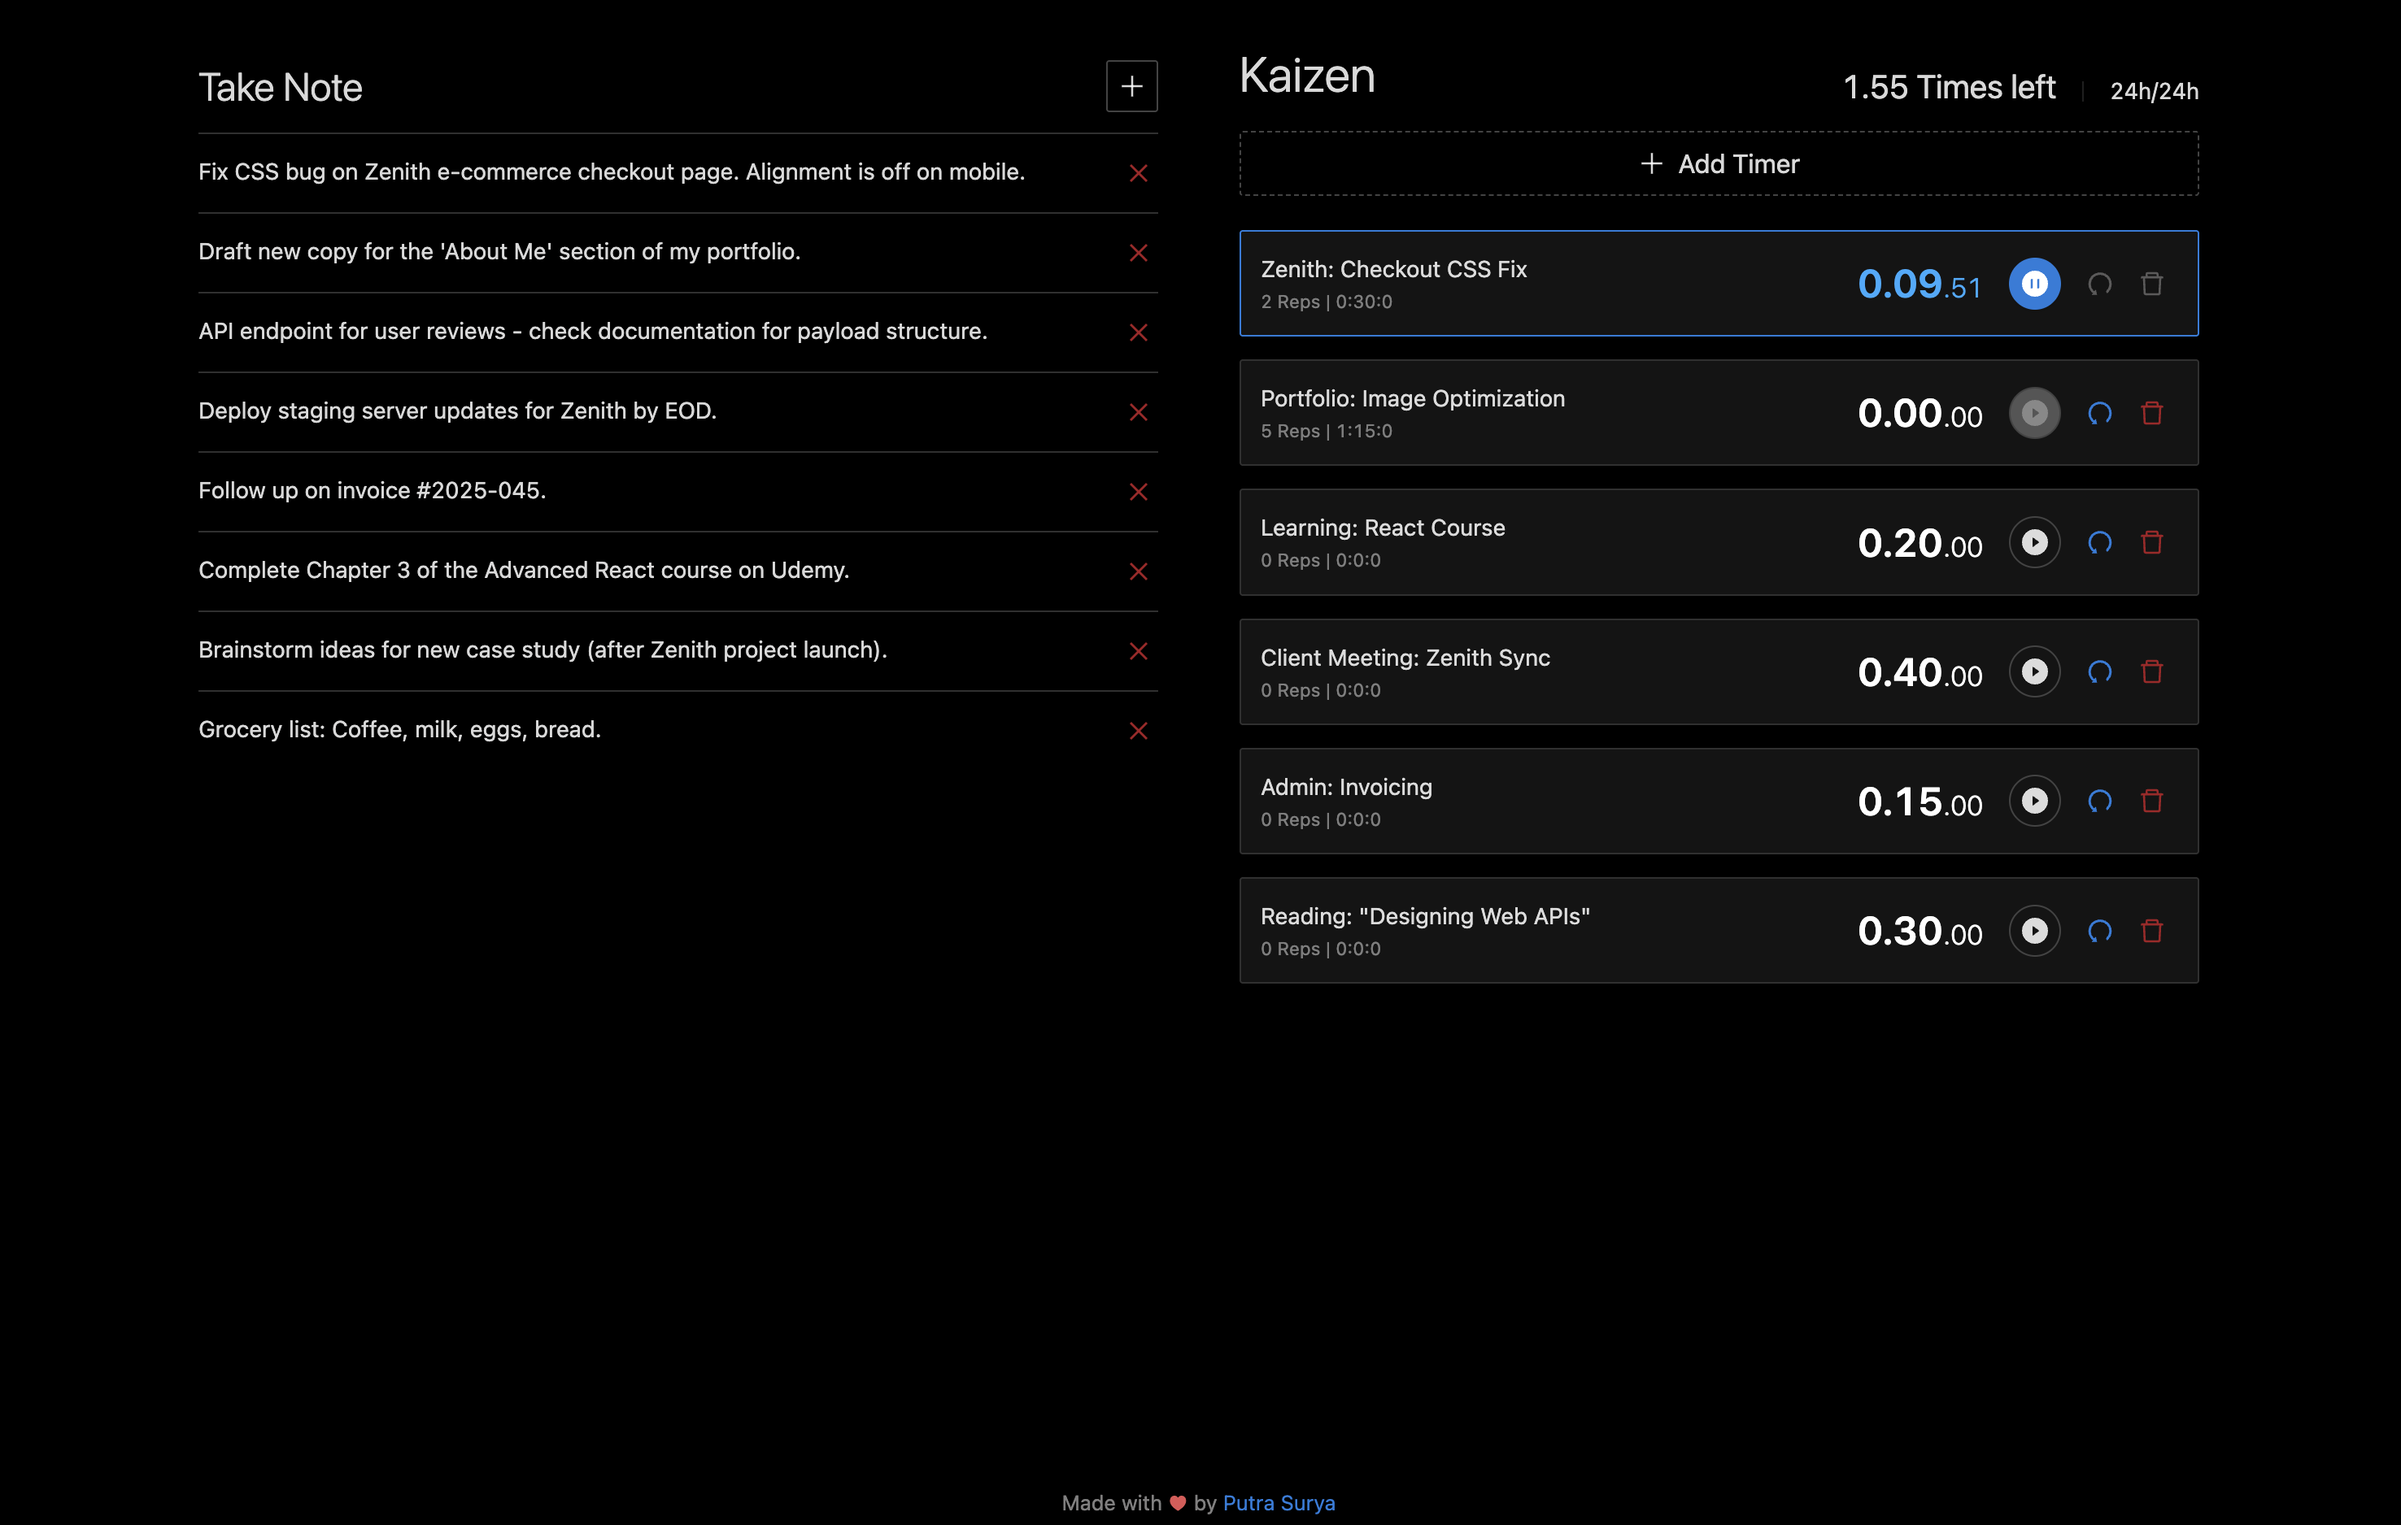
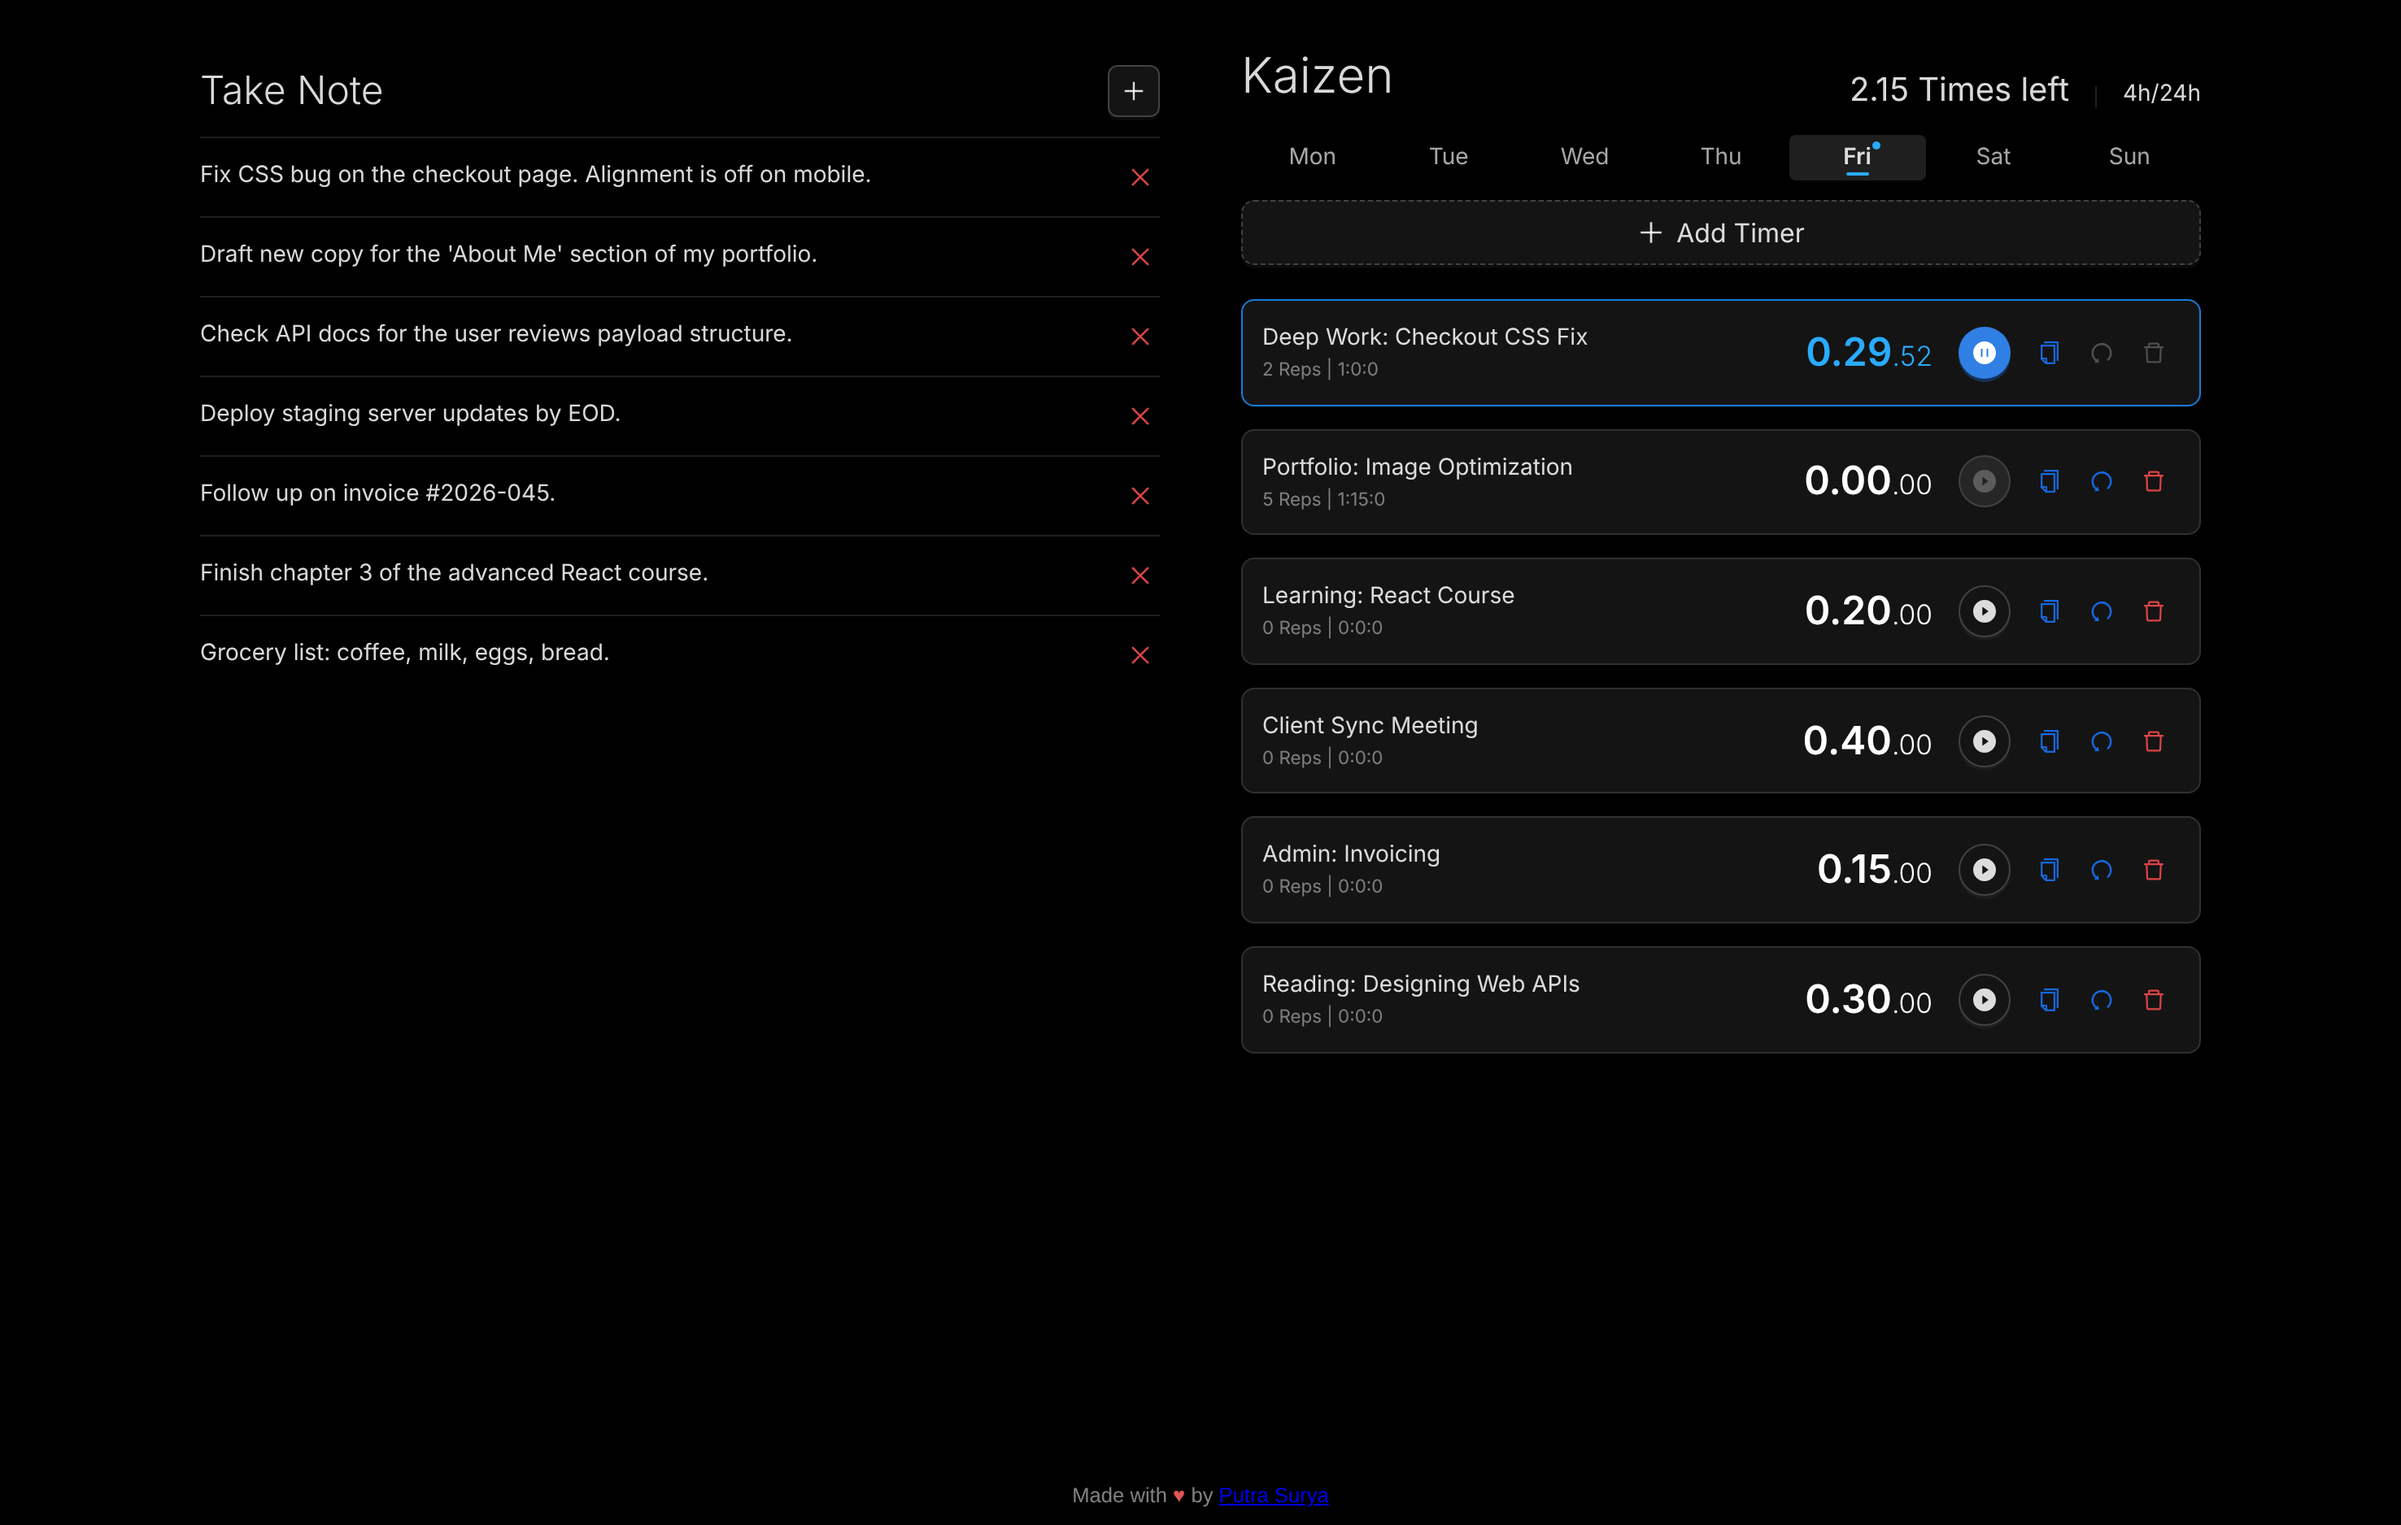
Update README and screenshot for weekday timers
Document weekday timers, copy-to-days, reps, PWA install and local
storage; correct the Node requirement and state management notes;
refresh the screenshot with the day picker.

Claude-Session: https://claude.ai/code/session_013W1pspxjPkncKzsRS1rkD1

diff --git a/README.md b/README.md
@@ -1,23 +1,25 @@
 # Kaizen
 
-A modern productivity application that combines timer management with note-taking functionality to help you practice continuous improvement in your daily workflow.
+A productivity app that pairs weekly timers with quick notes, to help you practice continuous improvement in your daily workflow.
 
-![Kaizen Demo](./screenshot.png)
+![Kaizen screenshot](./screenshot.png)
 
 ## ✨ Features
 
-- **Timer Management**: Create, manage, and track multiple timers for different tasks
-- **Note Taking**: Quick and easy note management with add/delete functionality
-- **Time Tracking**: Monitor time spent and remaining time for better productivity
-- **Responsive Design**: Works seamlessly on desktop and mobile devices
-- **Modern UI**: Clean interface built with Ant Design components
-- **Sound Notifications**: Audio alerts to keep you focused
+- **Timers per weekday**: Each timer belongs to a day of the week. Switch days with the day picker; today is selected by default and a dot marks days with a running timer.
+- **Copy to days**: Copy a timer's settings to other weekdays in one step (days that already have an identical timer are skipped).
+- **Reps**: Each time a timer reaches zero, it buzzes and counts a rep, so you can track how many rounds you've done.
+- **Time left**: See the total time remaining across the selected day's timers, plus how many hours are left in today.
+- **Notes**: Add and delete quick reminders alongside your timers.
+- **Saved locally**: Timers and notes are stored in your browser's localStorage, with automatic migration when the data format changes.
+- **Installable PWA**: Works offline and can be installed on desktop or mobile, with a prompt when a new version is available.
+- **Responsive**: Larger touch targets and a stacked layout on phones.
 
 ## 🚀 Quick Start
 
 ### Prerequisites
 
-- Node.js (^20.19.0 or >=22.12.0)
+- Node.js ^22.22.2, ^24.15.0, or >=26.0.0 (required by the test environment, jsdom)
 - npm (>=8.0.0)
 
 ### Installation
@@ -43,37 +45,42 @@ Open [http://localhost:5173](http://localhost:5173) to view the app in your brow
 ## 🛠 Available Scripts
 
 ### `npm start`
-Runs the app in development mode with hot module reloading enabled.
+Runs the app in development mode with hot module reloading.
 
 ### `npm test`
 Runs the test suite once (CI-friendly). Use `npx vitest` for interactive watch mode.
 
 ### `npm run build`
-Builds the app for production to the `build` folder. The build is optimized and ready for deployment.
+Builds the app for production into the `build` folder, including the PWA service worker.
 
 ## 🏗 Technology Stack
 
 - **Frontend**: React 19, JSX
 - **UI Framework**: Ant Design 6
 - **Styling**: CSS Modules, CSS-in-JS (via Ant Design)
-- **State Management**: React Context API
-- **Build Tool**: Vite
+- **State Management**: React Context with `useReducer`, persisted to localStorage
+- **Build Tool**: Vite, with `vite-plugin-pwa`
 - **Testing**: Vitest, React Testing Library
 
 ## 📁 Project Structure
 
 ```
 src/
-├── components/          # Reusable UI components
-│   ├── AppTimer.jsx    # Timer management component
-│   ├── AppNote.jsx     # Note-taking component
-│   ├── TimerAdd.jsx    # Add new timer form
-│   ├── TimerItem.jsx   # Individual timer display
+├── components/
+│   ├── AppTimer.jsx         # Timer list, day picker and time-left summary
+│   ├── AppNote.jsx          # Note-taking panel
+│   ├── TimerDayPicker.jsx   # Weekday tabs
+│   ├── TimerAdd.jsx         # Add-timer form
+│   ├── TimerItem.jsx        # A single timer with its controls
+│   ├── TimerCountdown.jsx   # Countdown logic and alarm
+│   ├── TimerCopy.jsx        # Copy a timer to other days
+│   ├── AppUpdatePrompt.jsx  # "New version available" prompt
 │   └── ...
 ├── redux/
-│   └── store.jsx       # Application state management
-├── App.jsx             # Main application component
-└── index.jsx           # Application entry point
+│   └── store.jsx            # Context store, reducer, persistence and migrations
+├── utilities/               # Day and time helpers
+├── App.jsx                  # Main layout
+└── index.jsx                # Entry point
 ```
 
 ## 🐳 Docker Support
